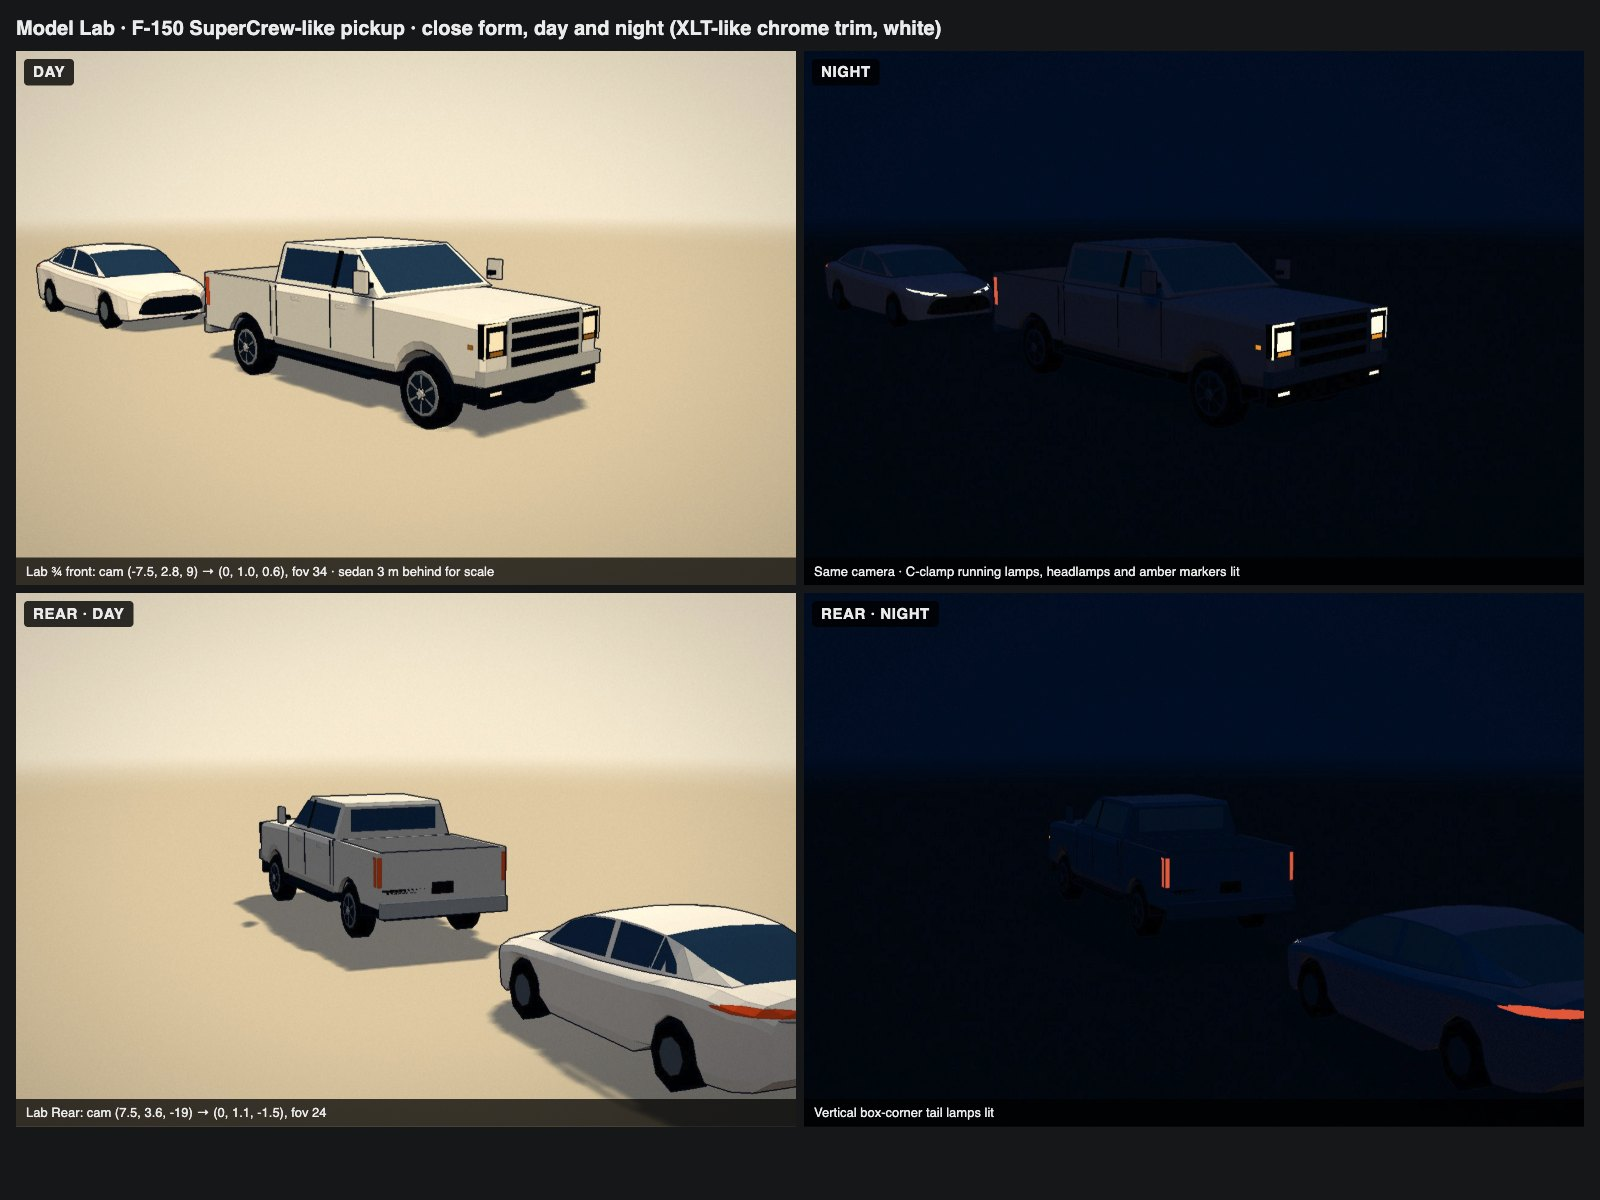
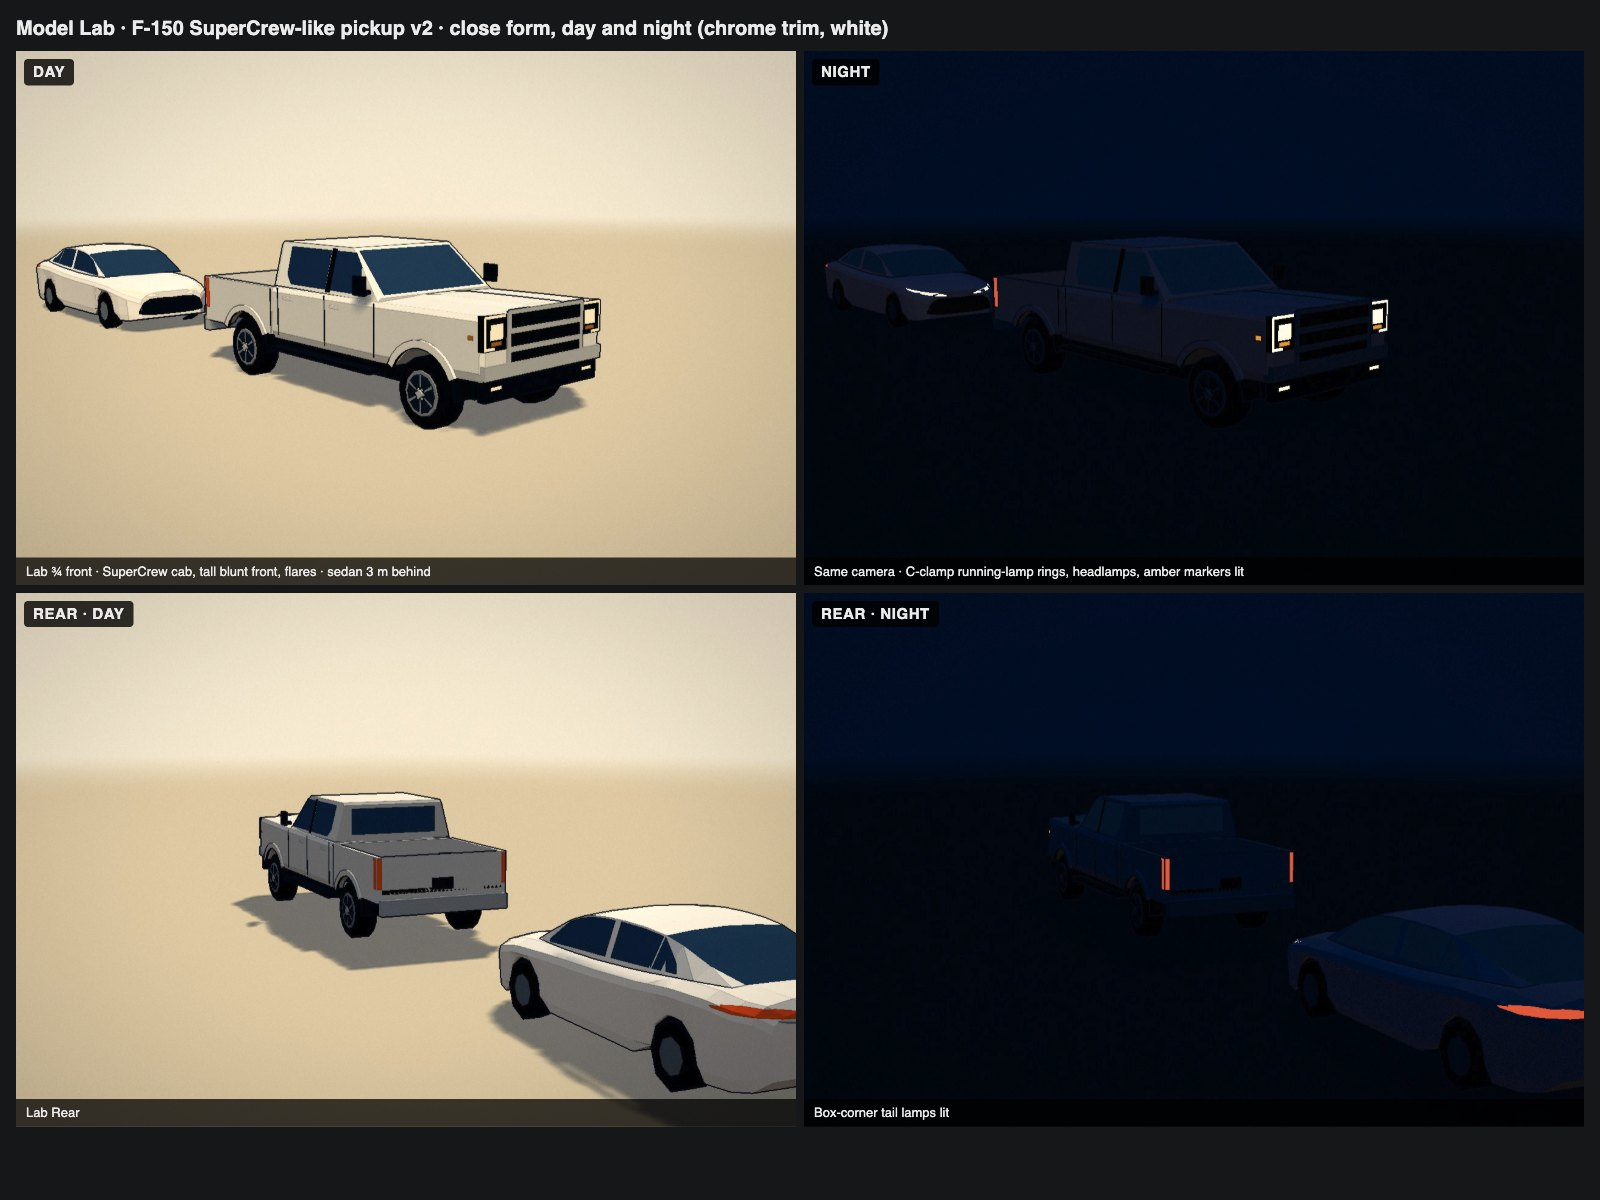
F-150 v2: SuperCrew cab, tall blunt front, flares, C-clamp lamp rings (Sam's review)
A lower belt and tall door glass with a near-vertical black B-pillar and a
long rear door with its own window; a high hood line with a power dome
over a grille that runs from the bumper to the hood; more ride height,
wider tyres and body-colour arch flares; C-clamp running-lamp rings
around the headlamps on the headlamp kind (lit at night, 0 new programs);
and a dark door-mounted mirror in place of the block that read as a
stray box. Close 3,046 / traffic 1,114 triangles.

diff --git a/web/src/vignette/road-pickup.ts b/web/src/vignette/road-pickup.ts
@@ -18,11 +18,15 @@ const FRONT_AXLE = FRONT - 0.95; // 37.4 in front overhang
 const REAR_AXLE = FRONT_AXLE - 3.693; // 145.4 in wheelbase, 49.2 in rear overhang
 const CAB_BACK = FRONT - 3.952; // 155.6 in bumper to back of cab
 const HALF = 2.029 / 2; // 79.9 in without mirrors
-const TYRE_R = 0.408; // 275/65R18, 32.1 in
+const TYRE_R = 0.412; // 275/65R18, 32.1 in, on a 4x4's ride height
 const TRACK = 1.725; // 67.9 in front, 68.3 in rear
-const ROOF = 1.94; // 4x2 1.915, 4x4 1.958
-const BELT = 1.4; // side-window sill (estimated)
-const ARCH = 0.5; // wheel-opening radius (estimated)
+const ROOF = 1.955; // 4x2 1.915, 4x4 1.958
+const BELT = 1.36; // side-window sill, level with the hood (estimated)
+const GLASS_TOP = 1.9; // tall door glass (estimated)
+const BED_TOP = 1.34; // box rail, just under the belt (estimated)
+const SILL = 0.64; // rocker bottom; 9.8 in ground clearance on a 4x4
+const ARCH = 0.52; // wheel-opening radius (estimated)
+const FLARE = 0.09; // arch flare lip, radial depth (estimated)
 const BED_FRONT = CAB_BACK - 0.03;
 const TAILGATE = FRONT - PICKUP_LENGTH + 0.11; // box and gate end, 11 cm ahead of the step bumper's face
 const FLOOR = 0.866; // open tailgate to ground, 4x4
@@ -73,17 +77,18 @@ function withArch(zs: number[], axle: number, segments: number) {
 function frontBody(k: FaceKit, near: boolean) {
   // z, half width at the shoulder, top (hood, then belt), sill
   const rows = [
-    [CAB_BACK, HALF, BELT, 0.56],
-    [1.22, HALF, BELT, 0.56],
-    [2.3, HALF - 0.005, 1.37, 0.6],
-    [FRONT - 0.09, HALF - 0.025, 1.34, 0.62],
-    [FRONT - 0.04, HALF - 0.08, 1.31, 0.64],
+    [CAB_BACK, HALF, BELT, SILL],
+    [1.2, HALF, BELT + 0.02, SILL],
+    [2.2, HALF, 1.4, SILL + 0.02],
+    [FRONT - 0.08, HALF - 0.015, 1.41, SILL + 0.04],
+    [FRONT - 0.03, HALF - 0.05, 1.395, SILL + 0.06],
   ];
   const zs = withArch(rows.map((r) => r[0]), FRONT_AXLE, near ? 10 : 5);
   const rings = zs.map((z) => {
     const [, w, top, sill] = sample(rows, z);
     const low = Math.max(sill, archTop(z, FRONT_AXLE));
-    const half = [[0, low], [w * 0.97, low], [w, Math.min(top - 0.2, low + 0.1)], [w, top - 0.1], [w * 0.95, top - 0.025], [w * 0.62, top], [0, top + 0.012]];
+    const dome = z > 1.3 ? 0.03 : 0.012;
+    const half = [[0, low], [w * 0.97, low], [w, Math.min(top - 0.2, low + 0.1)], [w, top - 0.08], [w * 0.96, top - 0.02], [w * 0.4, top], [w * 0.25, top + dome], [0, top + dome]];
     return [...half, ...half.slice(1, -1).reverse().map(([x, y]) => [-x, y])].map(([x, y]) => [x, y, z]);
   });
   k.skin(rings, body);
@@ -100,10 +105,10 @@ function frontBody(k: FaceKit, near: boolean) {
 function cab(k: FaceKit) {
   // z, half width at the belt, half width at the roof edge, roof height
   const rows = [
-    [CAB_BACK, 0.955, 0.8, ROOF - 0.05],
-    [CAB_BACK + 0.06, 0.96, 0.8, ROOF],
-    [0.55, 0.96, 0.8, ROOF],
-    [1.22, 0.975, 0.92, BELT + 0.03],
+    [CAB_BACK, 0.96, 0.82, ROOF - 0.04],
+    [CAB_BACK + 0.05, 0.965, 0.82, ROOF],
+    [0.55, 0.965, 0.82, ROOF],
+    [1.2, 0.98, 0.93, BELT + 0.04],
   ];
   k.skin(rows.map(([z, wb, wt, top]) => [[-wb, BELT, z], [wb, BELT, z], [wt, top, z], [-wt, top, z]]), body);
   const side = (z: number, y: number, s: number, lift = 0.008) => {
@@ -116,14 +121,17 @@ function cab(k: FaceKit) {
     return [x * wt, h + 0.006, z];
   };
   // Windshield across the raked front of the greenhouse.
-  k.panel([top(1.19, -0.92), top(1.19, 0.92), top(0.58, 0.92), top(0.58, -0.92)], wind, [0, BELT, 0.5]);
+  k.panel([top(1.17, -0.93), top(1.17, 0.93), top(0.6, 0.93), top(0.6, -0.93)], wind, [0, BELT, 0.5]);
   for (const s of [-1, 1]) {
     // Front door glass under the A-pillar, black B-pillar, rear door glass to the C-pillar.
-    k.panel([side(1.08, 1.47, s), side(0.36, 1.47, s), side(0.36, 1.87, s), side(0.68, 1.87, s)], glass, [0, 1.6, 0.7]);
-    k.panel([side(0.36, 1.45, s), side(0.26, 1.45, s), side(0.26, 1.9, s), side(0.36, 1.9, s)], dark, [0, 1.6, 0.3]);
-    k.panel([side(0.26, 1.47, s), side(-0.88, 1.47, s), side(-0.88, 1.87, s), side(0.26, 1.87, s)], glass, [0, 1.6, -0.3]);
+    // SuperCrew: front door glass under the A-pillar, a near-vertical black B-pillar, then the long
+    // rear door's own glass, and a body-colour C-pillar to the back of the cab.
+    const lo = BELT + 0.05, hi = GLASS_TOP;
+    k.panel([side(1.1, lo, s), side(0.24, lo, s), side(0.24, hi, s), side(0.64, hi, s)], glass, [0, 1.6, 0.7]);
+    k.panel([side(0.24, BELT + 0.02, s), side(0.14, BELT + 0.02, s), side(0.15, ROOF - 0.03, s), side(0.25, ROOF - 0.03, s)], dark, [0, 1.6, 0.2]);
+    k.panel([side(0.14, lo, s), side(-0.62, lo, s), side(-0.74, lo + 0.12, s), side(-0.74, hi, s), side(0.14, hi, s)], glass, [0, 1.6, -0.3]);
   }
-  k.lamp(0, 1.68, CAB_BACK - 0.004, 1.42, 0.34, '-z', glass);
+  k.lamp(0, 1.66, CAB_BACK - 0.004, 1.4, 0.4, '-z', glass);
 }
 
 function bed(k: FaceKit, near: boolean) {
@@ -132,8 +140,8 @@ function bed(k: FaceKit, near: boolean) {
   for (const s of [-1, 1]) {
     // Each wall is its own convex ring, so the open box needs no non-convex caps.
     k.skin(zs.map((z) => {
-      const low = Math.max(0.6, archTop(z, REAR_AXLE));
-      return [[s * inner, low, z], [s * HALF, low, z], [s * HALF, BELT, z], [s * inner, BELT, z]];
+      const low = Math.max(SILL + 0.04, archTop(z, REAR_AXLE));
+      return [[s * inner, low, z], [s * HALF, low, z], [s * HALF, BED_TOP, z], [s * inner, BED_TOP, z]];
     }), body);
     const segs = near ? 10 : 5;
     for (let i = 0; i < segs; i++) {
@@ -143,15 +151,33 @@ function bed(k: FaceKit, near: boolean) {
   }
   // Floor, front wall and tailgate, with a dark liner on the floor.
   k.box(0, FLOOR - 0.03, (BED_FRONT + TAILGATE) / 2, 2 * inner, 0.06, BED_FRONT - TAILGATE, liner);
-  k.box(0, (FLOOR + BELT) / 2, BED_FRONT - 0.025, 2 * inner, BELT - FLOOR, 0.05, body);
-  k.box(0, (0.62 + BELT) / 2, TAILGATE + 0.025, 2 * inner, BELT - 0.62, 0.05, body); // tailgate, between the walls
+  k.box(0, (FLOOR + BED_TOP) / 2, BED_FRONT - 0.025, 2 * inner, BED_TOP - FLOOR, 0.05, body);
+  k.box(0, (SILL + 0.06 + BED_TOP) / 2, TAILGATE + 0.025, 2 * inner, BED_TOP - SILL - 0.06, 0.05, body); // tailgate, between the walls
   // Wheelhouses inside the box.
   for (const s of [-1, 1]) k.box(s * (inner - 0.12), FLOOR + 0.13, REAR_AXLE, 0.24, 0.26, 2 * ARCH, liner);
 }
 
+/** Body-colour flare lips standing proud of each wheel opening, from sill to sill over the tyre. */
+function flares(k: FaceKit, near: boolean) {
+  const a0 = Math.asin((SILL - TYRE_R) / ARCH), segs = near ? 10 : 5, out = 0.035;
+  for (const axle of [FRONT_AXLE, REAR_AXLE])
+    for (const s of [-1, 1])
+      for (let i = 0; i < segs; i++) {
+        const ang = (j: number) => a0 + ((Math.PI - 2 * a0) * j) / segs;
+        const p = (j: number, x: number, r: number) => [s * x, TYRE_R + r * Math.sin(ang(j)), axle - r * Math.cos(ang(j))];
+        const hub = [s * (HALF - 0.3), TYRE_R, axle];
+        k.panel([p(i, HALF + out, ARCH), p(i + 1, HALF + out, ARCH), p(i + 1, HALF + out, ARCH + FLARE), p(i, HALF + out, ARCH + FLARE)], body, [0, TYRE_R, axle]);
+        k.panel([p(i, HALF - 0.01, ARCH + FLARE), p(i + 1, HALF - 0.01, ARCH + FLARE), p(i + 1, HALF + out, ARCH + FLARE), p(i, HALF + out, ARCH + FLARE)], body, hub);
+        k.panel([p(i, HALF - 0.01, ARCH), p(i + 1, HALF - 0.01, ARCH), p(i + 1, HALF + out, ARCH), p(i, HALF + out, ARCH)], liner, [s * (HALF + 1), TYRE_R + 3, axle]);
+        // Close the lip at the sill on both ends.
+        for (const [j, next] of [[0, 1], [segs, segs - 1]] as const)
+          if (i === 0) k.panel([p(j, HALF - 0.01, ARCH), p(j, HALF + out, ARCH), p(j, HALF + out, ARCH + FLARE), p(j, HALF - 0.01, ARCH + FLARE)], body, p(next, HALF + out / 2, ARCH + FLARE / 2));
+      }
+}
+
 function wheel(k: FaceKit, x: number, z: number, s: number, near: boolean, trim: PickupTrim) {
   const r = TYRE_R,
-    w = 0.275,
+    w = 0.3,
     rim = trim === 'xl' ? steelWheel : alloy,
     centre = [x, r, z];
   if (!near) {
@@ -183,38 +209,44 @@ function details(k: FaceKit, near: boolean, trim: PickupTrim) {
   const grilleBar = trim === 'xl' ? grilleXl : chrome;
   // Front: bumper, lower valance, a tall rectangular grille between C-clamp lamps.
   // A chrome (or dark) bar over a dark lower valance; the grille stands tall between the lamp pods.
-  k.box(0, 0.72, FRONT - 0.07, 2 * HALF - 0.04, 0.16, 0.14, bright);
-  k.box(0, 0.52, FRONT - 0.09, 2 * HALF - 0.12, 0.24, 0.1, plastic);
-  k.box(0, 1.03, FRONT - 0.04, 1.2, 0.54, 0.05, grilleDark);
-  for (const y of [0.94, 1.14]) k.box(0, y, FRONT - 0.012, 1.2, 0.055, 0.02, grilleBar);
-  for (const x of [-0.61, 0.61]) k.box(x, 1.03, FRONT - 0.012, 0.05, 0.56, 0.02, grilleBar);
-  k.box(0, 1.31, FRONT - 0.012, 1.22, 0.04, 0.02, grilleBar);
+  k.box(0, 0.78, FRONT - 0.07, 2 * HALF - 0.04, 0.16, 0.14, bright);
+  k.box(0, 0.58, FRONT - 0.09, 2 * HALF - 0.12, 0.24, 0.1, plastic);
+  // Tall, blunt grille from the bumper to the hood line.
+  k.box(0, 1.12, FRONT - 0.035, 1.22, 0.58, 0.05, grilleDark);
+  for (const y of [1.0, 1.2]) k.box(0, y, FRONT - 0.008, 1.22, 0.06, 0.02, grilleBar);
+  for (const x of [-0.62, 0.62]) k.box(x, 1.12, FRONT - 0.008, 0.05, 0.6, 0.02, grilleBar);
+  k.box(0, 1.405, FRONT - 0.008, 1.26, 0.05, 0.02, grilleBar);
   for (const s of [-1, 1]) {
     // Headlamp housing, its lens, the C-shaped running-lamp bar (top and outboard) and an amber marker.
-    k.box(s * 0.815, 1.12, FRONT - 0.07, 0.36, 0.36, 0.08, dark);
-    k.lamp(s * 0.8, 1.11, FRONT - 0.028, 0.22, 0.2, 'z', lens);
-    k.lamp(s * 0.82, 1.285, FRONT - 0.026, 0.34, 0.035, 'z', lens);
-    k.lamp(s * 0.975, 1.1, FRONT - 0.026, 0.035, 0.34, 'z', lens);
-    k.lamp(s * 0.8, 0.975, FRONT - 0.026, 0.2, 0.05, 'z', amber);
-    k.lamp(s * (HALF + 0.002), 1.05, FRONT - 0.2, 0.08, 0.05, 'x', amber);
+    // Headlamp pod at the grille's top corners, ringed by the C-clamp running lamp: along the top,
+    // down the outboard edge and back in under the lamp (lit at night with the headlamps).
+    k.box(s * 0.82, 1.2, FRONT - 0.065, 0.36, 0.38, 0.08, dark);
+    k.lamp(s * 0.8, 1.21, FRONT - 0.023, 0.2, 0.17, 'z', lens);
+    k.lamp(s * 0.83, 1.375, FRONT - 0.021, 0.33, 0.035, 'z', lens);
+    k.lamp(s * 0.98, 1.2, FRONT - 0.021, 0.035, 0.36, 'z', lens);
+    k.lamp(s * 0.91, 1.035, FRONT - 0.021, 0.17, 0.035, 'z', lens);
+    k.lamp(s * 0.8, 1.085, FRONT - 0.023, 0.16, 0.045, 'z', amber);
+    k.lamp(s * (HALF + 0.002), 1.15, FRONT - 0.2, 0.08, 0.05, 'x', amber);
     // Fog lamp bar in the bumper.
-    k.lamp(s * 0.78, 0.54, FRONT - 0.037, 0.18, 0.04, 'z', lens);
+    k.lamp(s * 0.78, 0.6, FRONT - 0.037, 0.18, 0.04, 'z', lens);
     // Mirror arm and head, door handles and running board.
-    k.box(s * 1.07, 1.56, 1.12, 0.12, 0.05, 0.07, plastic);
-    k.box(s * 1.15, 1.6, 1.1, 0.06, 0.26, 0.22, trim === 'xl' ? plastic : body);
-    k.box(s * 1.0, 0.47, (CAB_BACK + 1.2) / 2, 0.16, 0.05, 1.2 - CAB_BACK - 0.1, plastic);
+    // Door-mounted mirror: a short arm and a dark housing, so it reads as a mirror and not a block.
+    k.box(s * 1.06, 1.47, 1.06, 0.1, 0.04, 0.08, plastic);
+    k.box(s * 1.13, 1.55, 1.04, 0.045, 0.22, 0.2, plastic);
+    k.box(s * 1.0, SILL - 0.12, (CAB_BACK + 1.2) / 2, 0.16, 0.05, 1.2 - CAB_BACK - 0.1, plastic);
     // Tail lamps on the box corners, facing back and wrapping the side.
-    k.lamp(s * (HALF + INNER) / 2, 1.12, TAILGATE - 0.003, HALF - INNER - 0.01, 0.42, '-z', red);
-    k.lamp(s * (HALF + 0.002), 1.12, TAILGATE + 0.08, 0.1, 0.42, 'x', red);
+    k.lamp(s * (HALF + INNER) / 2, 1.1, TAILGATE - 0.003, HALF - INNER - 0.01, 0.44, '-z', red);
+    k.lamp(s * (HALF + 0.002), 1.1, TAILGATE + 0.08, 0.1, 0.44, 'x', red);
     if (!near) continue;
-    for (const z of [1.16, 0.31, -0.9]) k.box(s * (HALF + 0.004), (0.66 + BELT) / 2, z, 0.008, BELT - 0.72, 0.012, shadow);
-    for (const z of [0.55, -0.42]) k.box(s * (HALF + 0.012), 1.24, z, 0.02, 0.04, 0.2, trim === 'xl' ? plastic : body);
-    k.box(s * (HALF + 0.004), (0.66 + BELT) / 2, BED_FRONT - 0.006, 0.008, BELT - 0.72, 0.012, shadow);
+    // Door cuts: a front door to the B-pillar and a long rear door to the C-pillar.
+    for (const z of [1.17, 0.19, -0.86]) k.box(s * (HALF + 0.004), (SILL + 0.04 + BELT) / 2, z, 0.008, BELT - SILL - 0.08, 0.012, shadow);
+    for (const z of [0.42, -0.62]) k.box(s * (HALF + 0.012), 1.22, z, 0.02, 0.04, 0.2, trim === 'xl' ? plastic : body);
+    k.box(s * (HALF + 0.004), (SILL + 0.04 + BED_TOP) / 2, BED_FRONT - 0.006, 0.008, BED_TOP - SILL - 0.08, 0.012, shadow);
   }
   // Rear step bumper, plate recess, and the frame and fuel tank that fill the underside.
-  k.box(0, 0.58, FRONT - PICKUP_LENGTH + 0.07, 2 * HALF - 0.06, 0.22, 0.14, bright);
-  k.box(0, 0.86, TAILGATE - 0.004, 0.34, 0.17, 0.008, dark);
-  k.box(0, 0.42, (FRONT_AXLE + REAR_AXLE) / 2, 1.25, 0.24, FRONT_AXLE - REAR_AXLE + 0.9, dark);
+  k.box(0, 0.62, FRONT - PICKUP_LENGTH + 0.07, 2 * HALF - 0.06, 0.22, 0.14, bright);
+  k.box(0, 0.92, TAILGATE - 0.004, 0.34, 0.17, 0.008, dark);
+  k.box(0, 0.5, (FRONT_AXLE + REAR_AXLE) / 2, 1.25, 0.28, FRONT_AXLE - REAR_AXLE + 0.9, dark);
 }
 
 function kindOf(color: string) {
@@ -228,6 +260,7 @@ export function roadPickupGeometry({ near = false, paint = body, trim = 'xlt' as
   cab(k);
   bed(k, near);
   for (const s of [-1, 1]) for (const z of [FRONT_AXLE, REAR_AXLE]) wheel(k, (s * TRACK) / 2, z, s, near, trim);
+  flares(k, near);
   details(k, near, trim);
   return packFaces(k.faces, kindOf, paint);
 }

diff --git a/docs/road-pickup.md b/docs/road-pickup.md
@@ -20,14 +20,14 @@ A midsize sedan follows 3 m behind for scale. City traffic doesn't draw it yet (
 | Front bumper to back of cab | 155.6 in (3.952 m) | same |
 | Box floor length, load floor | 67.1 in (1.704 m); 0.866 m (4x4) | same |
 | Tyres | 275/65R18 (XLT 4x4), radius 0.408 m | same |
-| Hood height, belt, windshield rake, glass band, arch radius, box top length | **estimated** from the Commons photos below | — |
+| Hood line about 1.40 m, belt 1.36 m, glass to 1.90 m, box rail 1.34 m, rocker 0.64 m, arch radius 0.52 m plus a 9 cm flare lip, door cuts (front door to the B-pillar, long rear door) | **estimated** from the Commons photos below | — |
 
 ## Detail and cost
 
 | Form | Triangles | Vertices | Use |
 |---|---:|---:|---|
-| Close | 2,720 | — | Model Lab only |
-| Traffic | 928 | 1,772 | City High, if adopted |
+| Close | 3,046 | — | Model Lab only |
+| Traffic | 1,114 | — | City High, if adopted |
 | Today's generic `pickup` (vehicles.ts) | 432 | 1,296 | City High traffic |
 
 It uses the shared `vehicleMaterial` kinds: 0 paint, 1 headlamps and C-clamp running lamps, 2 tail lamps, 3 glass, 4 trim, and 5 amber markers. It adds no program. Faces come from the shared `face-kit.ts` (the semi's kit, now shared), and a test raycasts both forms and both trims for back faces.
